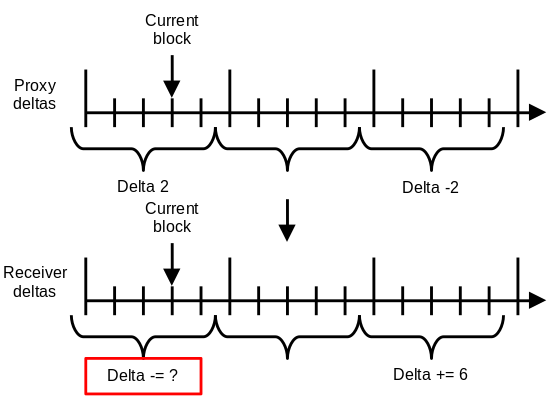
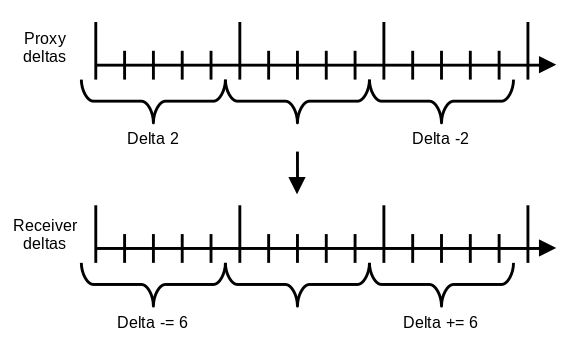
Add collect description

Changed region(s): [[0.0, 0.0295, 1.0, 0.472], [0.0, 0.5015, 0.9749, 0.9735], [0.4875, 0.4425, 0.5484, 0.59]]

diff --git a/docs/how_pool_works.md b/docs/how_pool_works.md
@@ -26,15 +26,31 @@ In the examples below, we assume that the cycle length is 5.
 
 ![](how_pool_works_1.png)
 
-# The receiver
+# The sender
 
-There are no setup steps for one to become a receiver.
-Any address can receive donations at any time, from any sender.
-The only function of this role is the collection of funds sent by others.
+The sender has a balance, a funding rate, and a set of receivers.
+
+The balance is automatically reduced by the funding rate on every block
+and the same amount is credited to the sender's receivers.
+This process doesn't actually require updates on every block,
+its effects are calculated on the fly whenever they are needed.
+Thus the contract state is updated only when the funding parameters are altered by the users.
+
+The sender balance is manually increased by topping up,
+which requires sending the assets from the user wallet to the contract.
+The opposite operation is withdrawal,
+which results in sending the assets from the contract back to the user wallet.
+
+This funding rate stays constant over time unless explicitly updated.
+
+The sender maintains a list of receivers, each of them with a weight.
+The weights regulate how the funded amount is split between the receivers.
+For example, a receiver with weight 2 is going to get a share twice as big
+as a receiver with weight 1, but only half as big as another receiver with weight 4.
 
 ## The deltas
 
-On every block, a sender can send funds to a receiver.
+On every block, a sender sends funds to a receiver.
 The receiver can collect funds sent on a given block only when the cycle containing it is over.
 
 ![](how_pool_works_2.png)
@@ -47,56 +63,27 @@ Each receiver needs to know, how much was sent to them.
 To accomplish that the history of received funds needs to be stored in some form.
 The receiver doesn't care, who exactly is sending on each block and in what configuration.
 The only thing that matters are the collectable per-cycle values below the timeline.
-This reduces the amount of stored data significantly, but this can be optimized further.
+This reduces the amount of data stored per receiver significantly, but this is further optimized.
 
 ![](how_pool_works_3.png)
 
-In this example, we started with having the raw collectable value of 23 for every block until
+In this example, we start with having the raw **collectable** value of 23 for every block until
 the end of time.
-We then reduced that to storing values added to the collectable amount on each cycle.
+Next, we reduce that to storing values **added** to the collectable amount on each cycle.
 Now we need to describe only cycles when receiving anything.
 The senders usually are sending constant per-cycle amounts over long periods of time, so
 the added values tend to create long series of constant numbers, in this case, 5s.
-We exploit that and turn them into deltas relative to the previous cycles.
-Now we need deltas only for cycles where the sending rate changes, it's very cheap.
+We exploit that and finally turn them into **deltas** relative to the previous cycles.
+Now we need to store data only for cycles where the sending rate changes, it's very cheap.
 This is what the contract actually stores: a mapping from cycle numbers to deltas.
-
-## Collecting
-
-When the receiver wants to collect the funds, they can iterate over the finished cycles, reconstruct
-the added values from deltas and then calculate the collectable amount at this point in time.
-For any cycle before the first funding begins the added value is assumed to be 0.
-
-# The sender
-
-The sender has a balance, a funding rate, and a set of receivers.
-
-The balance is reduced by the funding rate on every block
-and the same amount is credited to the sender's receivers.
-This process doesn't actually require updates on every block,
-its effects are calculated on the fly whenever they are needed.
-The contract state is updated only when the funding parameters are altered by the users.
-
-The balance is increased by topping up,
-which requires sending the assets from the user to the contract.
-The balance is reducing by withdrawing,
-which results in sending the assets from the contract to the user.
-
-The overall rate of funding of the sender is described with the amount per block.
-It limits the value, which is taken from the balance on each block and sent to the receivers.
-This value stays constant over time unless explicitly updated.
-
-The sender maintains a list of receivers, each of them with a weight.
-The weights regulate how the funded amount is split between the receivers.
-For example, a receiver with weight 2 is going to get a share twice as big
-as a receiver with weight 1, but only half as big as another receiver with weight 4.
 
 ## Starting sending
 
-When the sender has a sufficient balance, a sending rate and a list of receivers, sending starts.
+When the sender has a sufficient balance, a sending rate and a list of receivers,
+the flow of assets automatically starts.
 First, the funding period is calculated.
 Its start is the current block and its end is the block on which the balance will run out.
-Next, for each receiver the weighted share of the funding rate is calculated.
+Next, for each receiver, the weighted share of the funding rate is calculated.
 The receiver's deltas are updated to reflect that during the whole sending period on every block
 it's going to receive the calculated amount.
 
@@ -142,13 +129,45 @@ just as if it was always supposed to be the end of the funding period.
 Now the receiver's future isn't affected by the sender anymore.
 The past stays untouched because the already sent funds are out of the sender's control.
 
+# The receiver
+
+There are no setup steps for one to become a receiver.
+Any address can receive donations at any time, from any sender.
+The only function of this role is the collection of funds sent by others.
+
+## Collecting
+
+The receiver can at any time collect the funds sent to it.
+The contract calculates the total amount and then transfers it out to the receiver's wallet.
+The collected amount is always everything available at a given moment, there's no way to limit it.
+
+As shown in the previous sections, the collectable amount is described with deltas, one per cycle.
+The receiver stores the number of the first cycle, for which the funds haven't been collected yet.
+This prevents collecting the same funds multiple times, every cycle can be ever processed only once.
+The receiver also stores the amount, which was collected for the last collected cycle.
+This value is set to 0 if this is the first collection of the receiver.
+It's the initial value to which the deltas are added.
+
+To calculate, how much the receiver can collect,
+the contract iterates over all the completed cycles since the first uncollected one.
+For each of them, it adds the corresponding delta to the value collected from the previous cycle.
+This reconstructs the amount sent from all the senders during each cycle.
+These amounts are then added up and the result is the total collected amount.
+Finally, the next uncollected cycle number and the last cycle amount are updated.
+
+![](how_pool_works_6.png)
+
+In this example funds received from 4 cycles are being collected.
+The yellow fields are the stored state before the collection, green after it.
+The blue field is the collected value, which is going to be transferred to the sender's wallet.
+
 # The proxy
 
 The proxy is configured only with a list of receivers with an associated weight.
 The sum of the receivers' weights must always be a constant value,
 which is defined in the contract and it's the same for all the proxies.
 A proxy, which has never been configured has no receivers and it's impossible to send funds via it.
-After the first configuration it's impossible to disable the proxy, it's forever active.
+After the first configuration, it's impossible to disable the proxy, it's forever active.
 It can be reconfigured, but it must preserve the constant receivers' weights sum.
 
 Just like a receiver, the proxy has a mapping between the cycles and the deltas of received amounts.
@@ -166,7 +185,7 @@ The proxy has 2 receivers: A with weight 3 and B with weight 2.
 The sender wants to start sending via the proxy 2 per block or 10 per cycle.
 It's 2 per cycle per proxy weight.
 
-![](how_pool_works_6.png)
+![](how_pool_works_7.png)
 
 The proxy's deltas store amount per 1 proxy weight, which is 2.
 The receivers get their shares, A with weight 3 gets 6 and B with weight 2 gets 4 per cycle.
@@ -181,7 +200,7 @@ That's when the proxy's deltas come useful.
 For each cycle and each receiver, the proxy can tell the total delta it has applied.
 It can then use this information to erase its influence from its receivers.
 
-![](how_pool_works_7.png)
+![](how_pool_works_8.png)
 
 In this example, the receiver's weight is 3.
 To erase the influence, the proxy's deltas are multiplied by
@@ -197,7 +216,7 @@ When changing the set of receivers, a delta describing the current cycle may nee
 When it happens, it's unclear what part of the per-cycle delta should be moved,
 because some funds were sent before the current block and some will be sent after it.
 
-![](how_pool_works_8.png)
+![](how_pool_works_9.png)
 
 The solution is to ignore the problem and move the whole current cycle delta.
 Some funds already sent in the current cycle may disappear from one receiver and appear in another.
